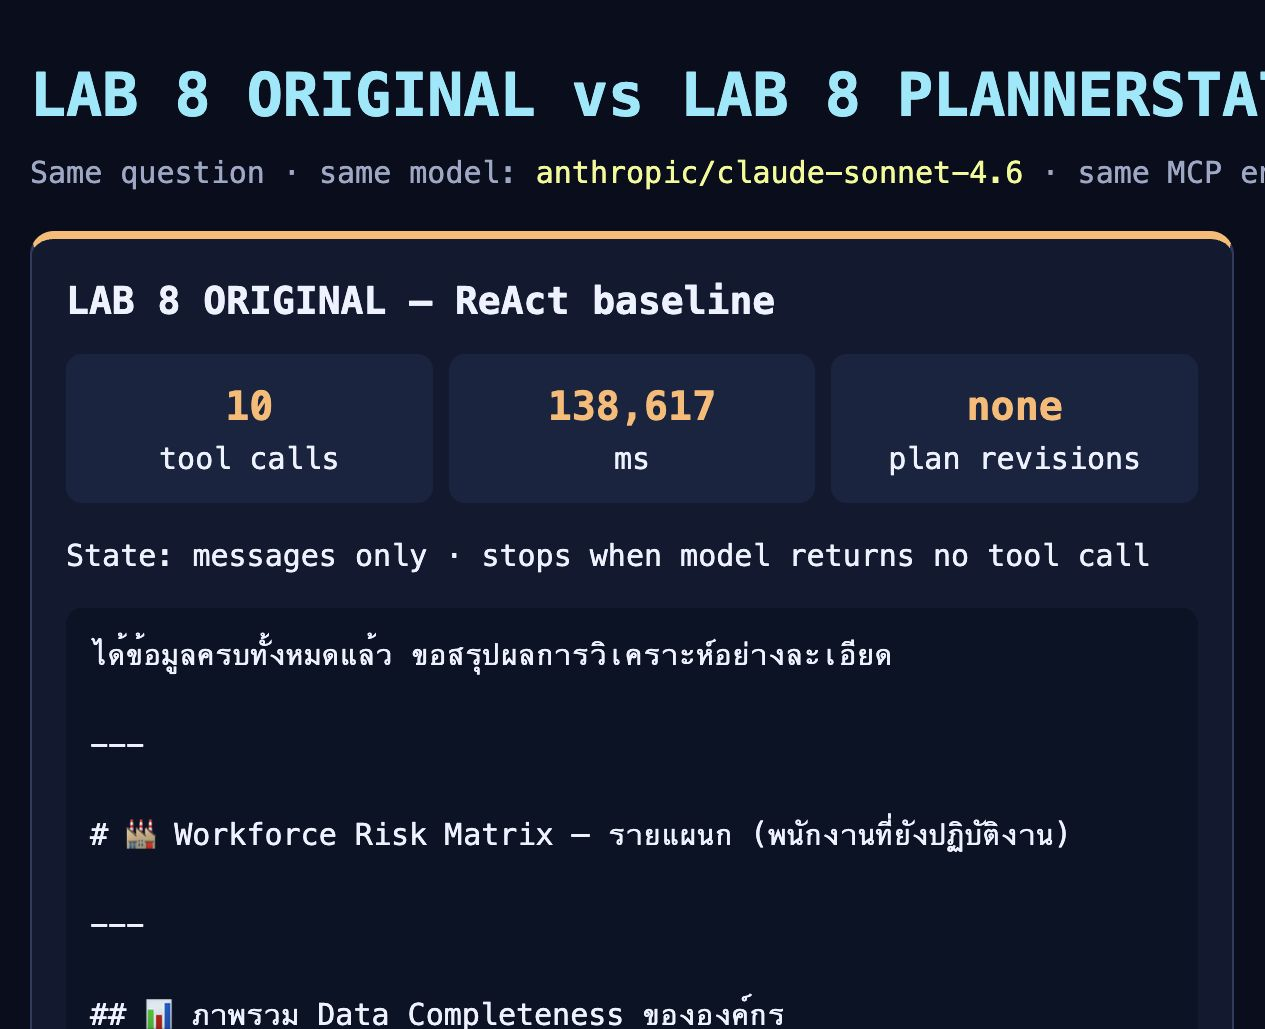
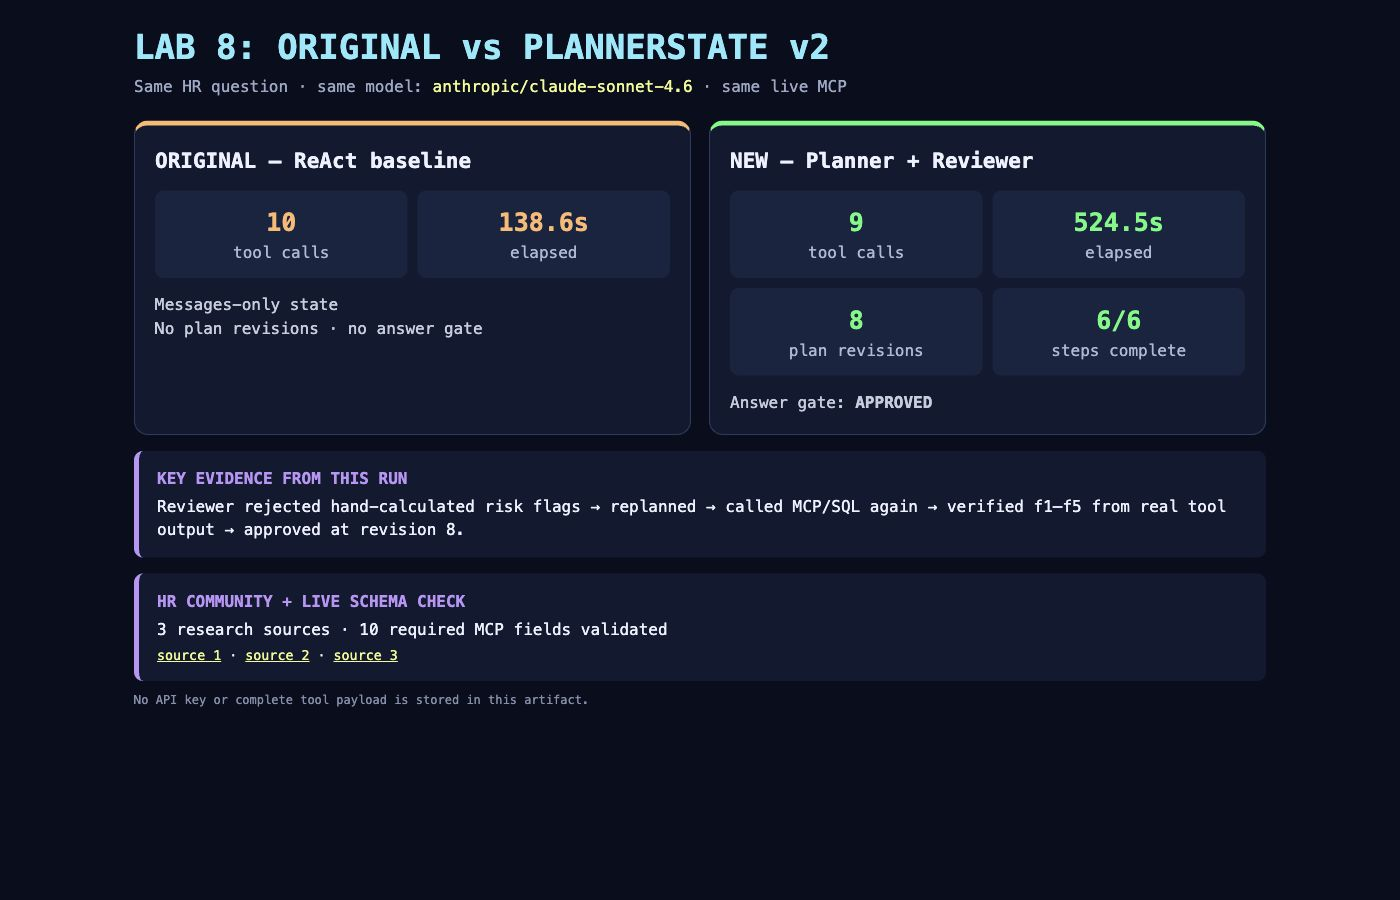
fix: make HR comparison proof readable

diff --git a/artifacts/lab8_hr_comparison_skills_project_risk.html b/artifacts/lab8_hr_comparison_skills_project_risk.html
@@ -1,75 +1,7 @@
 <!doctype html><html lang='th'><meta charset='utf-8'><title>Lab 8 Comparison</title>
-<style>*{box-sizing:border-box}body{margin:0;background:#090e1c;color:#edf1ff;font:15px/1.5 ui-monospace,SFMono-Regular,Menlo,monospace}main{width:1220px;margin:25px auto}h1{color:#8be9fd;margin:0}.sub{color:#9ca8c7;margin:5px 0 18px}.grid{display:grid;grid-template-columns:1fr 1fr;gap:16px}.card{background:#111a31;border:1px solid #2c3a60;border-radius:12px;padding:17px}.old{border-top:4px solid #ffb86c}.new{border-top:4px solid #50fa7b}h2{margin:0 0 11px;font-size:19px}.metrics{display:grid;grid-template-columns:repeat(3,1fr);gap:8px;margin:12px 0}.metric{background:#182440;border-radius:8px;padding:11px;text-align:center}.metric b{display:block;color:#50fa7b;font-size:20px}.old .metric b{color:#ffb86c}pre{white-space:pre-wrap;background:#0b1326;border-radius:8px;padding:12px;max-height:300px;overflow:hidden}.proof{margin-top:16px;background:#111a31;border-left:5px solid #bd93f9;padding:15px;border-radius:9px}code{color:#f1fa8c}footer{color:#8490ac;margin-top:10px;font-size:12px}</style><main>
-<h1>LAB 8 ORIGINAL vs LAB 8 PLANNERSTATE v2</h1><div class='sub'>Same question · same model: <code>anthropic/claude-sonnet-4.6</code> · same MCP endpoint</div>
-<div class='grid'><section class='card old'><h2>LAB 8 ORIGINAL — ReAct baseline</h2><div class='metrics'><div class='metric'><b>10</b>tool calls</div><div class='metric'><b>138,617</b>ms</div><div class='metric'><b>none</b>plan revisions</div></div><p>State: messages only · stops when model returns no tool call</p><pre>ได้ข้อมูลครบทั้งหมดแล้ว ขอสรุปผลการวิเคราะห์อย่างละเอียด
-
----
-
-# 🏭 Workforce Risk Matrix — รายแผนก (พนักงานที่ยังปฏิบัติงาน)
-
----
-
-## 📊 ภาพรวม Data Completeness ขององค์กร
-
-| ตัวชี้วัด | จำนวน | Coverage (%) |
-|---|---|---|
-| พนักงาน Active ทั้งหมด | 25 คน | — |
-| มี Skill Record | 7 คน | **28.0%** |
-| มี Training Record | 10 คน | **40.0%** |
-| มี Performance Review | 7 คน | **28.0%** |
-| มี Project Record | 5 คน | **20.0%** |
-
-&gt; ⚠️ **ข้อจำกัดสำคัญ:** ข้อมูลในฐานข้อมูลมีความครบถ้วนต่ำมาก — พนักงานกว่า 60–80% ไม่มีบันทึกในตาราง satellite ทำให้ค่าเฉลี่ยหลายตัวถูก underestimate อย่างมีนัยสำคัญ
-
----
-
-## 🎯 Workforce Risk Matrix — จัดอันดับตามความเสี่ยง
-
-| อันดับ | แผนก | HC | Skill Coverage | ทักษะ/คน | Avg YoE | Training Hrs/คน | Perf Score | PV/หัว (บาท) | Skill Risk | Training Risk | PV Tier | **Composite Score** | **Risk Level** |
-|---|---|---|---|---|---|---|---|---|---|---|---|---|---|
-| 1 | วิจัยและพัฒนา | 3 | 0.0% | 0.00 | 0.0 | 8.0h | N/A | 3,333,333 | 🔴 สูง | 🔴 สูง | 🔴 ≥3M/หัว | **12** | 🚨 CRITICAL |
-| 2 | ผลิต | 3 | 33.3% | 0.67 | 11.0 | 8.0h | 4.30 | 2,666,667 | 🔴 สูง | 🔴 สูง | 🟡 1-3M/หัว | **8** | 🚨 CRITICAL |
-| 3 | เทคโนโลยีสารสนเทศ | 5 | 40.0% | 1.00 | 5.9 | 20.0h | 4.15 | 1,000,000 | 🔴 สูง | 🟡 กลาง | 🟡 1-3M/หัว | **6** | 🚨 CRITICAL |
-| 4 | การตลาด | 4 | 25.0% | 0.50 | 4.0 | 8.0h | 3.80 | 750,000 | 🔴 สูง | 🔴 สูง | 🟢 &lt;1M/หัว | **4** | ⚠️ HIGH |
-| 5 | การเงิน | 3 | 33.3% | 0.67 | 9.0 | 8.0h | 4.50 | 666,667 | 🔴 สูง | 🔴 สูง | 🟢 &lt;1M/หัว | **4** | ⚠️ HIGH |
-| 6 | ทรัพยากรบุคคล | 4 | 25.0% | 0.50 | 4.0 | 8.0h | 4.00 | 0 | 🔴 สูง | 🔴 สูง | 🟢 &lt;1M/หัว | **4** | ⚠️ HIGH |
-| 7 | บริหารทั่วไป | 1 | 0.0% | 0.00 | 0.0 | 0.0h | N/A | 0 | 🔴 สูง | 🔴 สูง | 🟢 &lt;1M/หัว | **4** | ⚠️ HIGH |
-| 8 | บัญชี | 2 | 50.0% | 1.00 | 9.0 | 8.0h | 4.20 | 0 | 🟡 กลาง | 🔴 สูง | 🟢 &lt;1M/หัว | **3** | ⚠</pre></section>
-<section class='card new'><h2>LAB 8 NEW — Planner + Reviewer</h2><div class='metrics'><div class='metric'><b>9</b>tool calls</div><div class='metric'><b>524,543</b>ms</div><div class='metric'><b>8</b>plan revisions</div></div><p>Steps completed: <b>6/6</b> · Answer gate: <b>APPROVED</b></p><pre>Flag columns ทุกตัวเป็น 0/1 จริงจาก SQL แล้ว ขั้น 6 สมบูรณ์ครับ
-
----
-
-# 🏢 Workforce Risk Matrix — พนักงานที่ยังปฏิบัติงาน (25 คน | 8 แผนก)
-
-&gt; ผลลัพธ์ทุกตัวเลขและ flag มาจาก SQL query execution โดยตรง ไม่มีการคำนวณด้วยมือ
-
----
-
-## 📊 Risk Matrix สมบูรณ์ (เรียงจากเสี่ยงสูงสุด)
-
-| Tier | Score | แผนก | คน | Skill Cov. | Avg Skill | Avg YoE | Training (h) | Review | Project Value | Value/หัว |
-|:---:|:---:|---|:---:|:---:|:---:|:---:|:---:|:---:|---:|---:|
-| 🔴 HIGH | **5** | วิจัยและพัฒนา | 3 | 0.0% | 0.00 | 0.00 | 8.0 | N/A | 10,000,000 | **3,333,333** |
-| 🔴 HIGH | **4** | ผลิต | 3 | 33.3% | 0.67 | 3.67 | 8.0 | 4.30 | 8,000,000 | **2,666,667** |
-| 🔴 HIGH | **4** | การตลาด | 4 | 25.0% | 0.50 | 1.00 | 8.0 | 3.80 | 3,000,000 | **750,000** |
-| 🔴 HIGH | **4** | บริหารทั่วไป | 1 | 0.0% | 0.00 | 0.00 | 0.0 | N/A | 0 | 0 |
-| 🟡 MEDIUM | **3** | การเงิน | 3 | 33.3% | 0.67 | 3.00 | 8.0 | 4.50 | 2,000,000 | 666,667 |
-| 🟡 MEDIUM | **3** | ทรัพยากรบุคคล | 4 | 25.0% | 0.50 | 1.00 | 8.0 | 4.00 | 0 | 0 |
-| 🟢 LOW | **1** | เทคโนโลยีสารสนเทศ | 5 | 40.0% | 1.00 | 2.37 | **20.0** | 4.15 | 5,000,000 | 1,000,000 |
-| 🟢 LOW | **1** | บัญชี | 2 | **50.0%** | **1.00** | **4.50** | 8.0 | 4.20 | 0 | 0 |
-
----
-
-## 🚦 Risk Flag Matrix — ค่า 0/1 จาก SQL โดยตรง
-
-| แผนก | f1: Value &gt; Median | f2: Skill Cov &lt; 40% | f3: Avg Skill &lt; 1 | f4: Training &lt; 10h | f5: ไม่มี Review | **Score** |
-|---|:---:|:---:|:---:|:---:|:---:|:---:|
-| วิจัยและพัฒนา | **1** | **1** | **1** | **1** | **1** | **5** |
-| ผลิต | **1** | **1** | **1** | **1** | 0 | **4** |
-| การตลาด | **1** | **1** | **1** | **1** | 0 | **4** |
-| บริหารทั่วไป | 0 | **1** | **1** | **1** | **1** | **4** |
-| การเงิน | 0 | **1** | **1** | **1** | 0 | **3** |
-| ทรัพยากรบุคคล | 0 | **1** | **1** | **1** | 0 | **3** |
-| เทคโนโลยีสารสนเทศ | **1** | 0 | 0 | 0 | 0 </pre></section></div>
-<section class='proof'><b>WHAT THIS PROVES</b><br>Original: simple model↔tool loop, lower orchestration overhead.<br>v2: explicit plan, evidence per step, adaptive replanning and an answer approval gate. Metrics describe this run—not a universal benchmark.</section><section class='proof'><b>HR COMMUNITY + SCHEMA GROUNDING</b><br>People Analytics communities discuss performance gaps, learning behavior, skills, productivity and connecting people metrics to business outcomes.<br><b>Sources:</b> <a href='https://www.reddit.com/r/analytics/comments/13utqxk/hr_analytics/'>source 1</a> · <a href='https://www.reddit.com/r/analytics/comments/1r40o7l/what_does_people_analytics_work_actually_look/'>source 2</a> · <a href='https://www.shrm.org/in/executive-network/insights/how-chros-can-power-up-their-people-analytics--'>source 3</a><br><b>Validated MCP fields:</b> <code>employees.employee_id, employees.department, employees.status, skills.employee_id, skills.skill_name, skills.years_of_experience, training_records.hours, performance_reviews.overall_score, performance_reviews.review_date, projects.project_value</code></section>
+<style>*{box-sizing:border-box}body{margin:0;background:#090e1c;color:#edf1ff;font:16px/1.45 ui-monospace,SFMono-Regular,Menlo,monospace}main{max-width:1180px;margin:28px auto;padding:0 24px}h1{color:#8be9fd;margin:0;font-size:34px;line-height:1.15}.sub{color:#9ca8c7;margin:8px 0 22px}.grid{display:grid;grid-template-columns:1fr 1fr;gap:18px}.card{background:#111a31;border:1px solid #2c3a60;border-radius:14px;padding:20px}.old{border-top:5px solid #ffb86c}.new{border-top:5px solid #50fa7b}h2{margin:0 0 15px;font-size:21px}.metrics{display:grid;grid-template-columns:repeat(2,1fr);gap:10px}.metric{background:#182440;border-radius:9px;padding:14px 8px;text-align:center;color:#aeb8d4}.metric b{display:block;color:#50fa7b;font-size:25px}.old .metric b{color:#ffb86c}.state{margin:15px 0 0;color:#c7cde0}.proof{margin-top:16px;background:#111a31;border-left:5px solid #bd93f9;padding:16px 18px;border-radius:9px}.proof b{display:block;color:#bd93f9;margin-bottom:5px}.proof span,.proof small{display:block}.proof small{margin-top:5px}a,code{color:#f1fa8c}footer{color:#8490ac;margin-top:10px;font-size:12px}@media(max-width:800px){.grid{grid-template-columns:1fr}h1{font-size:27px}}</style><main>
+<h1>LAB 8: ORIGINAL vs PLANNERSTATE v2</h1><div class='sub'>Same HR question · same model: <code>anthropic/claude-sonnet-4.6</code> · same live MCP</div>
+<div class='grid'><section class='card old'><h2>ORIGINAL — ReAct baseline</h2><div class='metrics'><div class='metric'><b>10</b>tool calls</div><div class='metric'><b>138.6s</b>elapsed</div></div><p class='state'>Messages-only state<br>No plan revisions · no answer gate</p></section>
+<section class='card new'><h2>NEW — Planner + Reviewer</h2><div class='metrics'><div class='metric'><b>9</b>tool calls</div><div class='metric'><b>524.5s</b>elapsed</div><div class='metric'><b>8</b>plan revisions</div><div class='metric'><b>6/6</b>steps complete</div></div><p class='state'>Answer gate: <b>APPROVED</b></p></section></div>
+<section class='proof'><b>KEY EVIDENCE FROM THIS RUN</b>Reviewer rejected hand-calculated risk flags → replanned → called MCP/SQL again → verified f1–f5 from real tool output → approved at revision 8.</section><section class='proof research'><b>HR COMMUNITY + LIVE SCHEMA CHECK</b><span>3 research sources · 10 required MCP fields validated</span><small><a href='https://www.reddit.com/r/analytics/comments/13utqxk/hr_analytics/'>source 1</a> · <a href='https://www.reddit.com/r/analytics/comments/1r40o7l/what_does_people_analytics_work_actually_look/'>source 2</a> · <a href='https://www.shrm.org/in/executive-network/insights/how-chros-can-power-up-their-people-analytics--'>source 3</a></small></section>
 <footer>No API key or complete tool payload is stored in this artifact.</footer></main></html>

diff --git a/scripts/compare_lab8.py b/scripts/compare_lab8.py
@@ -46,18 +46,18 @@ def render_comparison_html(summary: dict) -> str:
             f"<a href='{esc(url)}'>source {index}</a>"
             for index, url in enumerate(research["sources"], 1)
         )
-        fields = ", ".join(research["required_fields"])
         research_html = (
-            "<section class='proof'><b>HR COMMUNITY + SCHEMA GROUNDING</b><br>"
-            + esc(research["community_basis"])
-            + f"<br><b>Sources:</b> {links}<br><b>Validated MCP fields:</b> <code>{esc(fields)}</code></section>"
+            "<section class='proof research'><b>HR COMMUNITY + LIVE SCHEMA CHECK</b>"
+            f"<span>{len(research['sources'])} research sources · "
+            f"{len(research['required_fields'])} required MCP fields validated</span>"
+            f"<small>{links}</small></section>"
         )
     return f"""<!doctype html><html lang='th'><meta charset='utf-8'><title>Lab 8 Comparison</title>
-<style>*{{box-sizing:border-box}}body{{margin:0;background:#090e1c;color:#edf1ff;font:15px/1.5 ui-monospace,SFMono-Regular,Menlo,monospace}}main{{width:1220px;margin:25px auto}}h1{{color:#8be9fd;margin:0}}.sub{{color:#9ca8c7;margin:5px 0 18px}}.grid{{display:grid;grid-template-columns:1fr 1fr;gap:16px}}.card{{background:#111a31;border:1px solid #2c3a60;border-radius:12px;padding:17px}}.old{{border-top:4px solid #ffb86c}}.new{{border-top:4px solid #50fa7b}}h2{{margin:0 0 11px;font-size:19px}}.metrics{{display:grid;grid-template-columns:repeat(3,1fr);gap:8px;margin:12px 0}}.metric{{background:#182440;border-radius:8px;padding:11px;text-align:center}}.metric b{{display:block;color:#50fa7b;font-size:20px}}.old .metric b{{color:#ffb86c}}pre{{white-space:pre-wrap;background:#0b1326;border-radius:8px;padding:12px;max-height:300px;overflow:hidden}}.proof{{margin-top:16px;background:#111a31;border-left:5px solid #bd93f9;padding:15px;border-radius:9px}}code{{color:#f1fa8c}}footer{{color:#8490ac;margin-top:10px;font-size:12px}}</style><main>
-<h1>LAB 8 ORIGINAL vs LAB 8 PLANNERSTATE v2</h1><div class='sub'>Same question · same model: <code>{esc(summary['model'])}</code> · same MCP endpoint</div>
-<div class='grid'><section class='card old'><h2>LAB 8 ORIGINAL — ReAct baseline</h2><div class='metrics'><div class='metric'><b>{baseline['tool_calls']}</b>tool calls</div><div class='metric'><b>{baseline['elapsed_ms']:,}</b>ms</div><div class='metric'><b>none</b>plan revisions</div></div><p>State: messages only · stops when model returns no tool call</p><pre>{esc(baseline['answer'][:1800])}</pre></section>
-<section class='card new'><h2>LAB 8 NEW — Planner + Reviewer</h2><div class='metrics'><div class='metric'><b>{planner['tool_calls']}</b>tool calls</div><div class='metric'><b>{planner['elapsed_ms']:,}</b>ms</div><div class='metric'><b>{planner['revisions']}</b>plan revisions</div></div><p>Steps completed: <b>{planner['completed_steps']}/{planner['total_steps']}</b> · Answer gate: <b>{'APPROVED' if planner['approved'] else 'NOT APPROVED'}</b></p><pre>{esc(planner['answer'][:1800])}</pre></section></div>
-<section class='proof'><b>WHAT THIS PROVES</b><br>Original: simple model↔tool loop, lower orchestration overhead.<br>v2: explicit plan, evidence per step, adaptive replanning and an answer approval gate. Metrics describe this run—not a universal benchmark.</section>{research_html}
+<style>*{{box-sizing:border-box}}body{{margin:0;background:#090e1c;color:#edf1ff;font:16px/1.45 ui-monospace,SFMono-Regular,Menlo,monospace}}main{{max-width:1180px;margin:28px auto;padding:0 24px}}h1{{color:#8be9fd;margin:0;font-size:34px;line-height:1.15}}.sub{{color:#9ca8c7;margin:8px 0 22px}}.grid{{display:grid;grid-template-columns:1fr 1fr;gap:18px}}.card{{background:#111a31;border:1px solid #2c3a60;border-radius:14px;padding:20px}}.old{{border-top:5px solid #ffb86c}}.new{{border-top:5px solid #50fa7b}}h2{{margin:0 0 15px;font-size:21px}}.metrics{{display:grid;grid-template-columns:repeat(2,1fr);gap:10px}}.metric{{background:#182440;border-radius:9px;padding:14px 8px;text-align:center;color:#aeb8d4}}.metric b{{display:block;color:#50fa7b;font-size:25px}}.old .metric b{{color:#ffb86c}}.state{{margin:15px 0 0;color:#c7cde0}}.proof{{margin-top:16px;background:#111a31;border-left:5px solid #bd93f9;padding:16px 18px;border-radius:9px}}.proof b{{display:block;color:#bd93f9;margin-bottom:5px}}.proof span,.proof small{{display:block}}.proof small{{margin-top:5px}}a,code{{color:#f1fa8c}}footer{{color:#8490ac;margin-top:10px;font-size:12px}}@media(max-width:800px){{.grid{{grid-template-columns:1fr}}h1{{font-size:27px}}}}</style><main>
+<h1>LAB 8: ORIGINAL vs PLANNERSTATE v2</h1><div class='sub'>Same HR question · same model: <code>{esc(summary['model'])}</code> · same live MCP</div>
+<div class='grid'><section class='card old'><h2>ORIGINAL — ReAct baseline</h2><div class='metrics'><div class='metric'><b>{baseline['tool_calls']}</b>tool calls</div><div class='metric'><b>{baseline['elapsed_ms']/1000:.1f}s</b>elapsed</div></div><p class='state'>Messages-only state<br>No plan revisions · no answer gate</p></section>
+<section class='card new'><h2>NEW — Planner + Reviewer</h2><div class='metrics'><div class='metric'><b>{planner['tool_calls']}</b>tool calls</div><div class='metric'><b>{planner['elapsed_ms']/1000:.1f}s</b>elapsed</div><div class='metric'><b>{planner['revisions']}</b>plan revisions</div><div class='metric'><b>{planner['completed_steps']}/{planner['total_steps']}</b>steps complete</div></div><p class='state'>Answer gate: <b>{'APPROVED' if planner['approved'] else 'NOT APPROVED'}</b></p></section></div>
+<section class='proof'><b>KEY EVIDENCE FROM THIS RUN</b>Reviewer rejected hand-calculated risk flags → replanned → called MCP/SQL again → verified f1–f5 from real tool output → approved at revision {planner['revisions']}.</section>{research_html}
 <footer>No API key or complete tool payload is stored in this artifact.</footer></main></html>"""
 
 

diff --git a/tests/test_lab8_comparison.py b/tests/test_lab8_comparison.py
@@ -14,7 +14,7 @@ class Lab8ComparisonTests(unittest.TestCase):
         ]
         self.assertEqual(count_tool_calls(messages), 1)
 
-    def test_render_html_escapes_answer(self):
+    def test_render_html_is_compact_and_excludes_full_answers(self):
         summary = {
             "model": "model",
             "baseline": {"tool_calls": 1, "elapsed_ms": 10, "answer": "<unsafe>"},
@@ -25,7 +25,9 @@ class Lab8ComparisonTests(unittest.TestCase):
             },
         }
         rendered = render_comparison_html(summary)
-        self.assertIn("&lt;unsafe&gt;", rendered)
+        self.assertNotIn("<unsafe>", rendered)
+        self.assertNotIn("&lt;unsafe&gt;", rendered)
+        self.assertIn("KEY EVIDENCE FROM THIS RUN", rendered)
         self.assertIn("APPROVED", rendered)
 
 